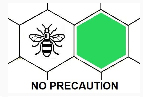
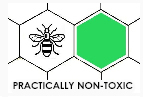
latest add on

Changed region(s): [[0.0839, 0.8351, 0.9231, 0.9278]]

diff --git a/lib/views/KeyPage/key_page_widget.dart b/lib/views/KeyPage/key_page_widget.dart
@@ -189,13 +189,13 @@ class KeyPageWidget extends StatelessWidget {
 
                 Container(
                   width: MediaQuery.of(context).size.width,
-                  height: MediaQuery.of(context).size.height * 0.12,
+                  height: MediaQuery.of(context).size.height * 0.16,
                   color: Colors.lightGreenAccent,
                   child: const Center(
                     child: Padding(
                       padding: EdgeInsets.all(15.0),
                       child: Text(
-                        'No Bee Precautionary statement on label',
+                        'Practically Non-Toxic Bee Precautionary statement on label',
                         maxLines: 3,
                         textAlign: TextAlign.center,
                         style: TextStyle(
@@ -324,7 +324,7 @@ class KeyPageWidget extends StatelessWidget {
                     child: Padding(
                       padding: EdgeInsets.all(15.0),
                       child: Text(
-                        'No Precaution',
+                        'Practically Non-Toxic',
                         maxLines: 3,
                         textAlign: TextAlign.center,
                         style: TextStyle(

diff --git a/lib/views/AboutPage/about_page_widget.dart b/lib/views/AboutPage/about_page_widget.dart
@@ -239,15 +239,6 @@ class AboutPageWidget extends StatelessWidget {
                   height: 2,
                 ),
                 const Text(
-                  'Nina Rudin, Oklahoma State University',
-                  maxLines: 2,
-                  textAlign: TextAlign.left,
-                  style: TextStyle(fontWeight: FontWeight.normal, fontSize: 18),
-                ),
-                const SizedBox(
-                  height: 2,
-                ),
-                const Text(
                   'With help and contribution from:',
                   style: TextStyle(fontWeight: FontWeight.bold, fontSize: 20),
                 ),
@@ -273,7 +264,7 @@ class AboutPageWidget extends StatelessWidget {
                   height: 2,
                 ),
                 const Text(
-                  'DRPCAU, Pusa, Bihar',
+                  'Dr. Pradeep K. Chhuneja, PAU, Ludhiana, India',
                   maxLines: 2,
                   textAlign: TextAlign.left,
                   style: TextStyle(fontWeight: FontWeight.normal, fontSize: 18),
